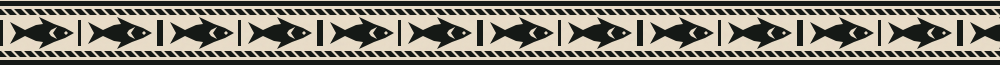
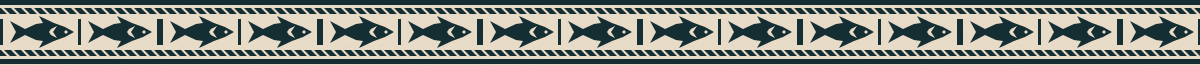
Use horizontal triangle tattoo band and shared lagoon pattern color

diff --git a/src/styles/guide-theme.css b/src/styles/guide-theme.css
@@ -66,7 +66,7 @@
 .guide-hero-aside { margin-bottom: 10px; padding-top: 25px; border-top-width: 1px; }
 .guide-hero-aside h2, .guide-hero-aside > p.font-headline { font-size: 34px; line-height: 1.12; }
 .guide-hero-aside .tg-eyebrow { margin-bottom: 20px; }
-.guide-hero-border { position: absolute; bottom: 0; left: 0; color: #151916; }
+.guide-hero-border { position: absolute; bottom: 0; left: 0; color: var(--ocean); }
 .guide-hero--split .guide-hero-grid { grid-template-columns: 1fr 1fr; align-items: center; }
 .guide-hero-media { height: 520px; border-radius: 48% 48% 0 0; }
 .guide-hero-media img { transition: transform 1.5s var(--ease); }
@@ -78,16 +78,16 @@
 .guide-hero--photo .tg-eyebrow { color: var(--paper); }
 .guide-hero--photo .guide-hero-title { font-size: clamp(80px,10vw,156px); }
 .guide-hero--photo .guide-hero-title em { color: #e2c5a3; }
-.guide-hero--photo .guide-hero-border { background: #e9ddc9; color: #151916; }
+.guide-hero--photo .guide-hero-border { background: #e9ddc9; color: var(--ocean); }
 .guide-context { padding-inline: 5.2%; }
 .guide-toc { padding-inline: 5.2%; background: var(--paper); }
 .guide-toc .tg-page-link { font-size: 10px; text-transform: uppercase; letter-spacing: .1em; }
 .guide-onward { position: relative; padding-top: 145px !important; }
-.guide-onward-border { position: absolute; top: 0; left: 0; color: #151916; background: #e9ddc9; }
+.guide-onward-border { position: absolute; top: 0; left: 0; color: var(--ocean); background: #e9ddc9; }
 .guide-onward h2 { font-size: clamp(36px,4.5vw,70px); max-width: 850px; }
 
 .guide-footer { background: var(--ocean); color: var(--paper); overflow: hidden; }
-.guide-footer-band { color: #151916; background: #e9ddc9; }
+.guide-footer-band { color: var(--ocean); background: #e9ddc9; }
 .guide-footer-inner { padding: 0 5.2% 30px; }
 .guide-footer-top { display: grid; grid-template-columns: 1.7fr 1fr 1fr auto; gap: 40px; padding: 70px 0 65px; }
 .guide-footer-tagline { font: 42px/1.1 'Newsreader',Georgia,serif; letter-spacing: -.025em; }

diff --git a/src/styles/homepage.css b/src/styles/homepage.css
@@ -79,7 +79,7 @@
 .arrival-caption a span { font-size: 17px; padding-left: 12px; }
 .island-tattoo { width: 100%; line-height: 0; }
 .island-tattoo svg { display: block; }
-.arrival-border { position: absolute; bottom: 0; left: 0; color: #151916; background: #e9ddc9; }
+.arrival-border { position: absolute; bottom: 0; left: 0; color: var(--ocean); background: #e9ddc9; }
 .home-in { animation: home-fade 1.2s .45s var(--ease) both; }
 .section-meta { display: flex; align-items: center; justify-content: space-between; padding-bottom: 60px; }
 .small-star { color: var(--rust); font-size: 32px; }
@@ -145,7 +145,7 @@
 .ancient-orbits span:nth-child(3) { inset: 30px; }
 .ancient-orbits span:nth-child(4) { inset: 45px; }
 .culture-section { background: #e9ddc9; padding-top: 157px; padding-bottom: 140px; position: relative; display: grid; grid-template-columns: 1.05fr 1fr; column-gap: 10%; }
-.culture-border { position: absolute; top: 24px; left: 0; color: #151916; }
+.culture-border { position: absolute; top: 24px; left: 0; color: var(--ocean); }
 .culture-copy h2 { font-size: clamp(66px,7vw,118px); line-height: .97; margin-top: 45px; }
 .culture-copy h2 em { color: var(--rust); }
 .culture-body { margin: 38px 0 0 12%; max-width: 340px; }
@@ -187,7 +187,7 @@
 .planning-note { font-size: 10px; line-height: 1.8; margin-top: 25px !important; }
 .island-footer { background: var(--ocean); color: var(--paper); }
 .home-footer-content { padding: 0 4% 25px; }
-.footer-border { color: #151916; background: #e9ddc9; }
+.footer-border { color: var(--ocean); background: #e9ddc9; }
 .footer-top { display: flex; justify-content: space-between; align-items: start; padding: 55px 0 50px; }
 .footer-tagline { font: 40px/1.1 'Newsreader', Georgia, serif; letter-spacing: -.025em; }
 .footer-tagline em { color: #d7bb94; }

diff --git a/src/styles/custom-guides.css b/src/styles/custom-guides.css
@@ -44,7 +44,7 @@
 .custom-guide .custom-guide-aside nav a:hover { padding-left: 5px; }
 .custom-guide .custom-guide-hero > .island-tattoo {
   height: 64px;
-  color: #151916;
+  color: var(--ocean);
 }
 .custom-guide .custom-guide-hero--photo { color: #f2f0e5; background: #142e34; }
 .custom-guide .custom-guide-hero-image {
@@ -70,7 +70,7 @@
 .custom-guide .custom-guide-subtitle { font-family: 'Newsreader', Georgia, serif; font-size: clamp(30px, 3vw, 46px); line-height: 1.12; margin: 0 0 24px; font-style: italic; }
 .custom-guide .custom-guide-actions { display: flex; flex-wrap: wrap; gap: 14px; margin-top: 30px; }
 .custom-guide .custom-guide-caption { margin-top: 40px; font-size: 10px; text-transform: uppercase; letter-spacing: .15em; }
-.custom-guide .custom-guide-hero--photo > .island-tattoo { position: relative; color: #151916; background: #e9ddc9; }
+.custom-guide .custom-guide-hero--photo > .island-tattoo { position: relative; color: var(--ocean); background: #e9ddc9; }
 .custom-guide .custom-guide-context { font-size: 11px; }
 .custom-guide .custom-guide-toc { background: #e9e8dc; }
 .custom-guide .custom-guide-toc a { font-size: 12px; }

diff --git a/docs/homepage-design-research.md b/docs/homepage-design-research.md
@@ -104,3 +104,9 @@ Owner screenshots exposed the headline being vertically compressed by a fixed-he
 The new tattoo reference informed broader chevron fields and a framed stacked-triangle panel. Fish now have tapered bodies, forked tails, swept fins and angular gill cutouts. Removed reversed playback so right-facing fish move right (transform -160px at start to -80px halfway through), retaining the 100-second seamless cycle.
 
 Validation: build and diff checks passed. Browser geometry checks at 320×568, 390×844, 768×700, 1440×665, 1440×900, 1920×900, 2560×1080 and 3440×1440 confirm intact lettering, full-width footer bands, no horizontal overflow, and hero content clear of the bottom band. Animated lettering remains inside its box after entry. Pattern pause works, and start/end pixel comparisons remain identical for both variants. `wide-layout-checks.json` records the measured results; stencil detail images were refreshed.
+
+### Horizontal reference panel and shared dark color — 2026-09-28
+
+Owner requested the close-up tattoo panel laid horizontally, then requested that both patterns match the site's main dark color. The geometric variant now uses a continuous horizontal row of solid right-pointing triangles, enclosed by heavy rails and diagonal-hatched strips above and below. It replaces the alternating chevron/panel interpretation. Both variants use the existing `--ocean` token (#142e34), matching the dark footer and feature sections instead of a separate black ink value. Fish silhouettes and head-first movement are retained.
+
+Build passes. Pixel comparisons confirm identical loop endpoints for both patterns. Browser inspection on the home, outer-island, Nan Madol and Getting Here layouts confirms every pattern resolves to rgb(20,46,52), with no horizontal page overflow. Refreshed both stencil-detail screenshots.
